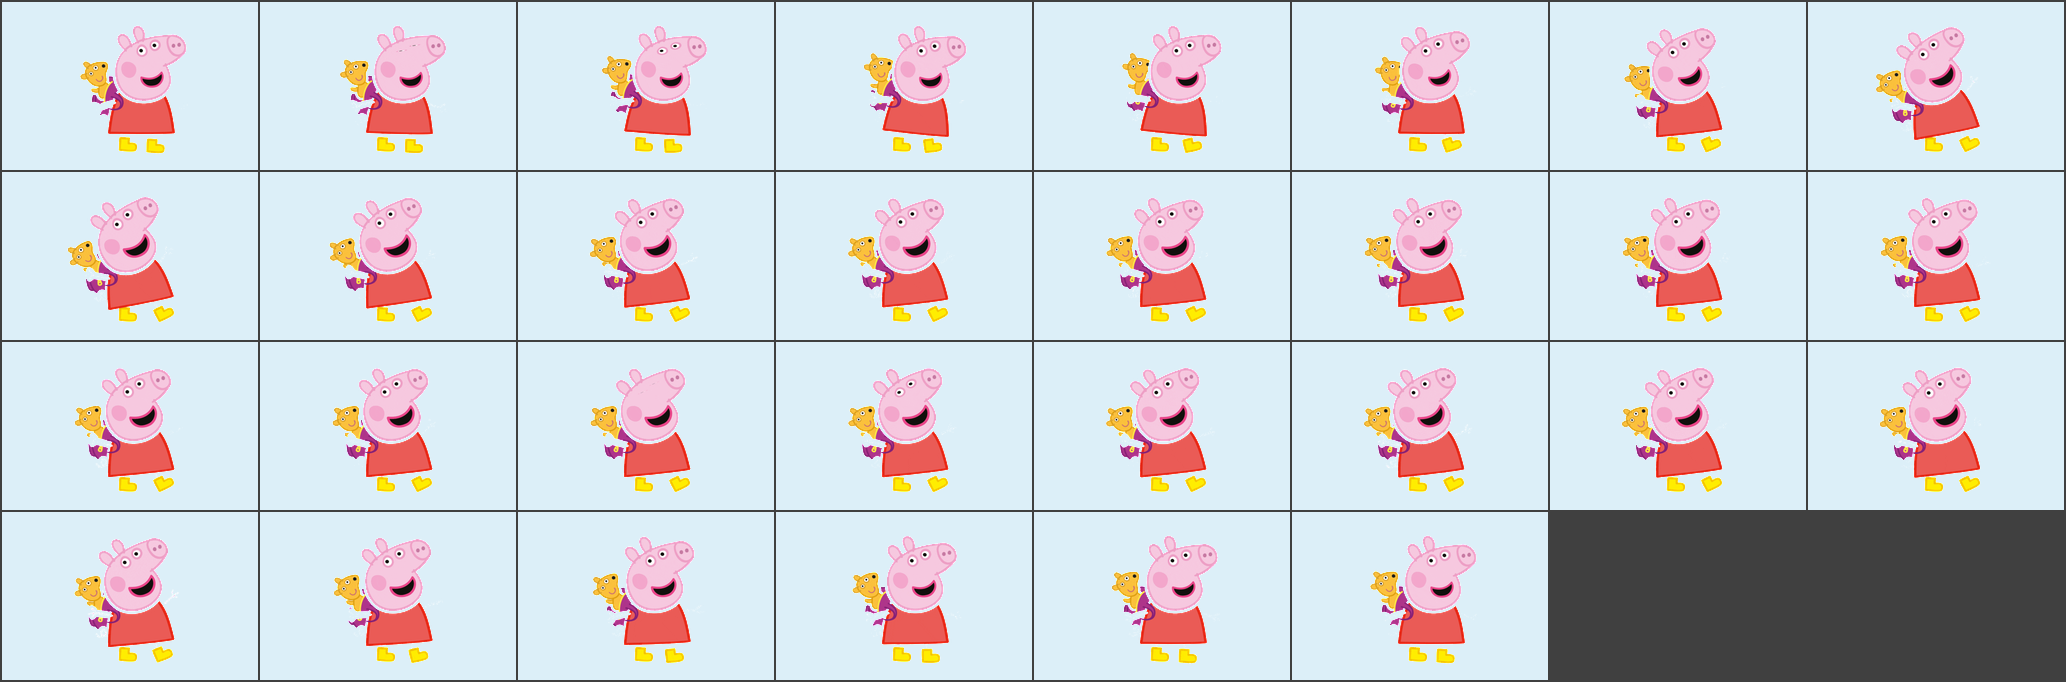
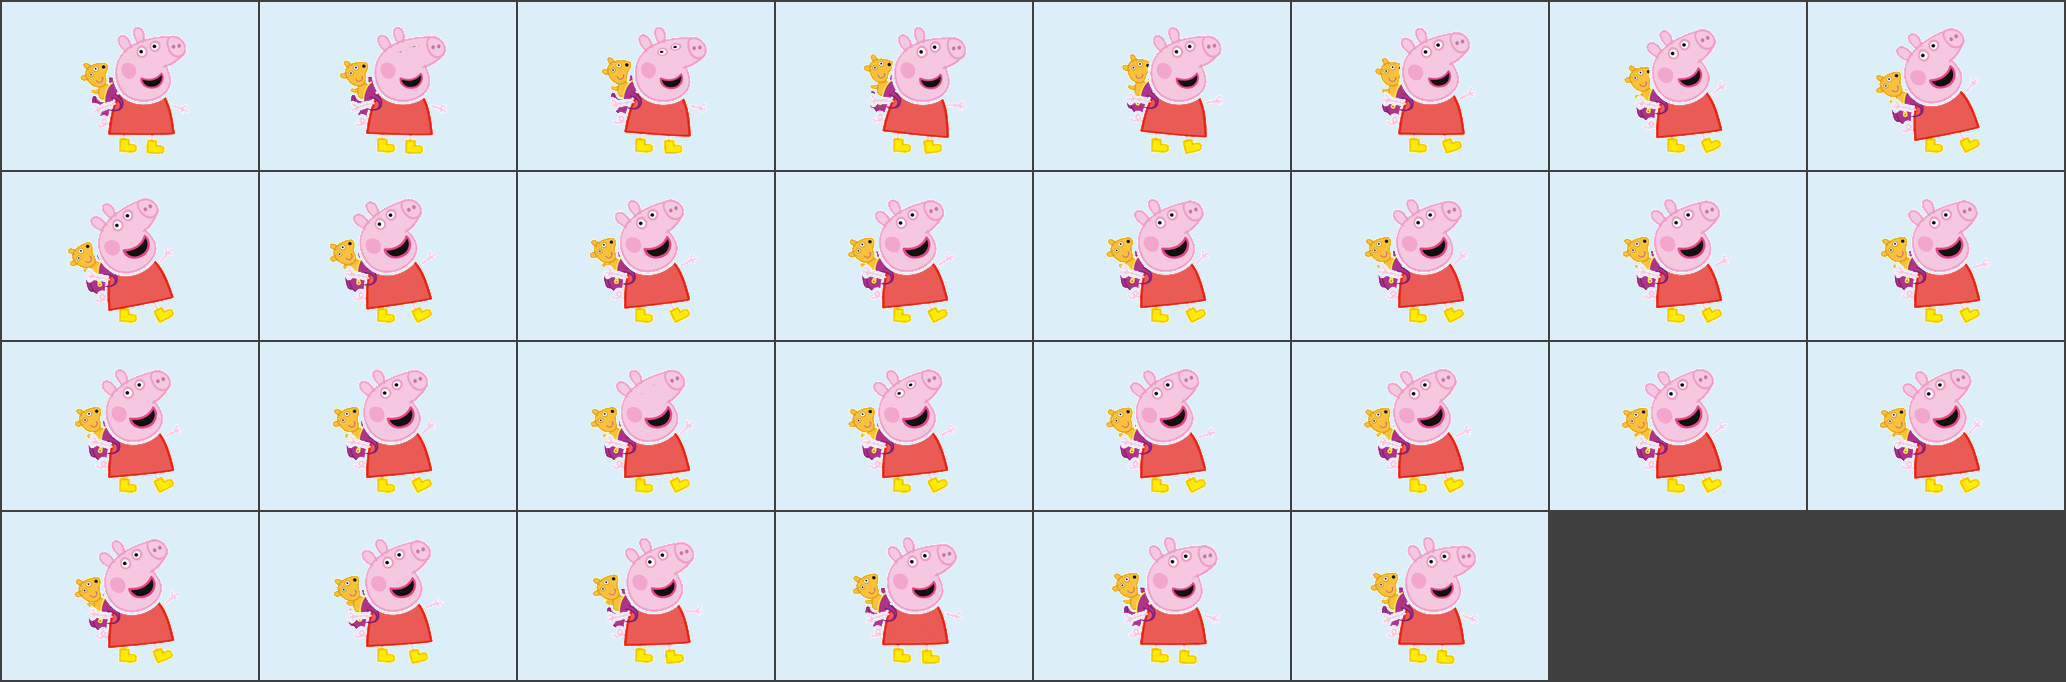
fix(character): keep pale-pink skin intact when stripping sticker border
The white-border removal matched pixels by min(RGB)>=200 alone, which also
matched Peppa's pale-pink skin (chroma ~46); the flood ate her front arm and
punched holes in the backpack strap on walk.gif. The matcher now requires a
neutral color (min>=235 && chroma<=18), followed by two anti-halo passes that
clear only low-chroma bright pixels adjacent to the new transparency.

Verified frame-by-frame against the source: arm, teddy and backpack intact;
white rim removed cleanly (366k px stripped across 30 frames, 536 enclosed
whites left = eye whites).

diff --git a/main/protocols/protocol.cc b/main/protocols/protocol.cc
@@ -23,6 +23,57 @@ void Protocol::AddTextFontCapabilities(cJSON* root) {
     cJSON_AddItemToObject(root, "text_font", font);
 }
 
+void Protocol::AddCharacterAnimationHello(cJSON* root) {
+#if CONFIG_ENABLE_CHARACTER_DISPLAY
+    auto catalog = Assets::GetInstance().character_catalog();
+    if (catalog == nullptr || !catalog->valid()) {
+        return;
+    }
+    const CharacterPackDef* pack = catalog->pack();
+    cJSON* features = cJSON_GetObjectItem(root, "features");
+    if (cJSON_IsObject(features)) {
+        cJSON_AddBoolToObject(features, "character_animation", true);
+    }
+    cJSON* animation = cJSON_CreateObject();
+    cJSON_AddNumberToObject(animation, "version", 1);
+    cJSON_AddStringToObject(animation, "pack_id", pack->pack_id.c_str());
+    cJSON_AddNumberToObject(animation, "epoch", 1);
+    cJSON* actions = cJSON_AddArrayToObject(animation, "actions");
+    for (const auto& action : pack->actions) {
+        cJSON_AddItemToArray(actions, cJSON_CreateString(action.id.c_str()));
+    }
+    cJSON_AddItemToObject(root, "character_animation", animation);
+#endif
+}
+
+void Protocol::ParseCharacterAnimationHello(const cJSON* root) {
+    // The server confirms by echoing version 1; without confirmation the
+    // device stays on local state + neutral and never expects action metadata
+    auto animation = cJSON_GetObjectItem(root, "character_animation");
+    if (!cJSON_IsObject(animation)) {
+        character_animation_confirmed_ = false;
+        return;
+    }
+    auto version = cJSON_GetObjectItem(animation, "version");
+    character_animation_confirmed_ =
+        cJSON_IsNumber(version) && version->valueint == 1;
+    ESP_LOGI(TAG, "Server character animation %s",
+             character_animation_confirmed_ ? "confirmed" : "not confirmed");
+}
+
+void Protocol::AddCharacterAnimationContext(cJSON* root) {
+#if CONFIG_ENABLE_CHARACTER_DISPLAY
+    auto catalog = Assets::GetInstance().character_catalog();
+    if (catalog == nullptr || !catalog->valid()) {
+        return;
+    }
+    cJSON* animation = cJSON_CreateObject();
+    cJSON_AddNumberToObject(animation, "version", 1);
+    cJSON_AddNumberToObject(animation, "epoch", character_epoch_);
+    cJSON_AddItemToObject(root, "character_animation", animation);
+#endif
+}
+
 void Protocol::OnIncomingJson(std::function<void(const cJSON* root)> callback) {
     on_incoming_json_ = callback;
 }
@@ -64,33 +115,70 @@ void Protocol::SetError(const std::string& message, const std::string& detail) {
 }
 
 void Protocol::SendAbortSpeaking(AbortReason reason) {
-    std::string message = "{\"session_id\":\"" + session_id_ + "\",\"type\":\"abort\"";
+    // An abort interrupts the current turn: publish a new capture epoch with it
+    character_epoch_++;
+    cJSON* root = cJSON_CreateObject();
+    cJSON_AddStringToObject(root, "session_id", session_id_.c_str());
+    cJSON_AddStringToObject(root, "type", "abort");
     if (reason == kAbortReasonWakeWordDetected) {
-        message += ",\"reason\":\"wake_word_detected\"";
+        cJSON_AddStringToObject(root, "reason", "wake_word_detected");
     }
-    message += "}";
-    SendText(message);
+    AddCharacterAnimationContext(root);
+    auto json_str = cJSON_PrintUnformatted(root);
+    SendText(json_str);
+    cJSON_free(json_str);
+    cJSON_Delete(root);
 }
 
 void Protocol::SendWakeWordDetected(const std::string& wake_word) {
-    std::string json = "{\"session_id\":\"" + session_id_ +
-                       "\",\"type\":\"listen\",\"state\":\"detect\",\"text\":\"" + wake_word +
-                       "\"}";
-    SendText(json);
+    cJSON* root = cJSON_CreateObject();
+    cJSON_AddStringToObject(root, "session_id", session_id_.c_str());
+    cJSON_AddStringToObject(root, "type", "listen");
+    cJSON_AddStringToObject(root, "state", "detect");
+    cJSON_AddStringToObject(root, "text", wake_word.c_str());
+    AddCharacterAnimationContext(root);
+    auto json_str = cJSON_PrintUnformatted(root);
+    SendText(json_str);
+    cJSON_free(json_str);
+    cJSON_Delete(root);
 }
 
 void Protocol::SendStartListening(ListeningMode mode) {
-    std::string message = "{\"session_id\":\"" + session_id_ + "\"";
-    message += ",\"type\":\"listen\",\"state\":\"start\"";
+    // A new capture window: publish a fresh epoch before the audio starts
+    // (character design, section 9)
+    character_epoch_++;
+    cJSON* root = cJSON_CreateObject();
+    cJSON_AddStringToObject(root, "session_id", session_id_.c_str());
+    cJSON_AddStringToObject(root, "type", "listen");
+    cJSON_AddStringToObject(root, "state", "start");
     if (mode == kListeningModeRealtime) {
-        message += ",\"mode\":\"realtime\"";
+        cJSON_AddStringToObject(root, "mode", "realtime");
     } else if (mode == kListeningModeAutoStop) {
-        message += ",\"mode\":\"auto\"";
+        cJSON_AddStringToObject(root, "mode", "auto");
     } else {
-        message += ",\"mode\":\"manual\"";
+        cJSON_AddStringToObject(root, "mode", "manual");
     }
-    message += "}";
-    SendText(message);
+    AddCharacterAnimationContext(root);
+    auto json_str = cJSON_PrintUnformatted(root);
+    SendText(json_str);
+    cJSON_free(json_str);
+    cJSON_Delete(root);
+}
+
+void Protocol::SendCharacterReset() {
+    // Local VAD interrupt without a listen message (continuous listening):
+    // invalidate the current visual turn on the server side
+    character_epoch_++;
+    cJSON* root = cJSON_CreateObject();
+    cJSON_AddStringToObject(root, "session_id", session_id_.c_str());
+    cJSON_AddStringToObject(root, "type", "character");
+    cJSON_AddStringToObject(root, "state", "reset");
+    cJSON_AddNumberToObject(root, "version", 1);
+    cJSON_AddNumberToObject(root, "epoch", character_epoch_);
+    auto json_str = cJSON_PrintUnformatted(root);
+    SendText(json_str);
+    cJSON_free(json_str);
+    cJSON_Delete(root);
 }
 
 void Protocol::SendStopListening() {

diff --git a/scripts/character_pack_tools/peppa_pack.py b/scripts/character_pack_tools/peppa_pack.py
@@ -177,14 +177,19 @@ def flatten_frames(path):
     return frames
 
 
-def strip_white_border(rgba, min_channel=200):
-    """Remove sticker-style white outline: flood white-ish pixels that touch
-    transparency. Enclosed whites (eye whites) are unreachable and survive."""
+def strip_white_border(rgba, min_channel=235, max_chroma=18):
+    """Remove sticker-style white outline: flood NEUTRAL white pixels that
+    touch transparency. Peppa's pale-pink skin has chroma ~46, so requiring a
+    low chroma keeps skin/arms intact even where they touch the silhouette
+    (regression: min-channel-only matching ate the arm). Enclosed whites (eye
+    whites) are unreachable and survive."""
     arr = np.array(rgba)
     alpha = arr[:, :, 3]
     h, w = alpha.shape
-    rgb_min = arr[:, :, :3].astype(int).min(axis=2)
-    whiteish = (alpha > 0) & (rgb_min >= min_channel)
+    rgb = arr[:, :, :3].astype(int)
+    rgb_min = rgb.min(axis=2)
+    chroma = rgb.max(axis=2) - rgb.min(axis=2)
+    whiteish = (alpha > 0) & (rgb_min >= min_channel) & (chroma <= max_chroma)
     transparent = alpha == 0
     vis = np.zeros((h, w), bool)
     dq = deque()
@@ -205,6 +210,24 @@ def strip_white_border(rgba, min_channel=200):
                 dq.append((ny, nx))
     arr = arr.copy()
     arr[vis] = (0, 0, 0, 0)
+    # anti-halo pass: leftover near-white AA pixels now adjacent to the new
+    # transparency are border residue; skin AA keeps enough chroma to survive
+    for _ in range(2):
+        alpha = arr[:, :, 3]
+        rgb = arr[:, :, :3].astype(int)
+        transparent = alpha == 0
+        adjacent = (
+            np.roll(transparent, 1, 0) | np.roll(transparent, -1, 0)
+            | np.roll(transparent, 1, 1) | np.roll(transparent, -1, 1)
+        )
+        fringe = (
+            (alpha > 0) & adjacent
+            & (rgb.min(axis=2) >= 200)
+            & ((rgb.max(axis=2) - rgb.min(axis=2)) <= 16)
+        )
+        if not fringe.any():
+            break
+        arr[fringe] = (0, 0, 0, 0)
     leftover = int((whiteish & ~vis).sum())
     return Image.fromarray(arr), int(vis.sum()), leftover
 

diff --git a/main/protocols/protocol.h b/main/protocols/protocol.h
@@ -66,6 +66,17 @@ public:
     virtual void SendStopListening();
     virtual void SendAbortSpeaking(AbortReason reason);
     virtual void SendMcpMessage(const std::string& message);
+    // Character reset for interrupts that carry no listen message (local VAD
+    // in continuous listening); publishes a new epoch (character design, section 9)
+    virtual void SendCharacterReset();
+
+    // Character animation protocol extension (v1, optional). The capability is
+    // declared in the device hello; playback of actions requires the server
+    // hello to confirm version 1.
+    inline bool character_animation_confirmed() const {
+        return character_animation_confirmed_;
+    }
+    inline uint32_t character_epoch() const { return character_epoch_; }
 
 protected:
     std::function<void(const cJSON* root)> on_incoming_json_;
@@ -87,6 +98,15 @@ protected:
     void SetError(const std::string& message, const std::string& detail);
     virtual bool IsTimeout() const;
     static void AddTextFontCapabilities(cJSON* root);
+    // Character animation parts shared by both transports; the device
+    // capability is derived from the assets character pack
+    static void AddCharacterAnimationHello(cJSON* root);
+    void ParseCharacterAnimationHello(const cJSON* root);
+    // Attaches the current epoch when the capability is declared
+    void AddCharacterAnimationContext(cJSON* root);
+
+    bool character_animation_confirmed_ = false;
+    uint32_t character_epoch_ = 1;
 };
 
 #endif  // PROTOCOL_H

diff --git a/main/protocols/websocket_protocol.cc b/main/protocols/websocket_protocol.cc
@@ -208,6 +208,7 @@ std::string WebsocketProtocol::GetHelloMessage() {
     cJSON_AddBoolToObject(features, "mcp", true);
     cJSON_AddItemToObject(root, "features", features);
     AddTextFontCapabilities(root);
+    AddCharacterAnimationHello(root);
     cJSON_AddStringToObject(root, "transport", "websocket");
     cJSON* audio_params = cJSON_CreateObject();
     cJSON_AddStringToObject(audio_params, "format", "opus");
@@ -250,6 +251,8 @@ void WebsocketProtocol::ParseServerHello(const cJSON* root) {
             server_frame_duration_ = frame_duration->valueint;
         }
     }
+
+    ParseCharacterAnimationHello(root);
 
     xEventGroupSetBits(event_group_handle_, WEBSOCKET_PROTOCOL_SERVER_HELLO_EVENT);
 }

diff --git a/main/protocols/mqtt_protocol.cc b/main/protocols/mqtt_protocol.cc
@@ -397,6 +397,7 @@ std::string MqttProtocol::GetHelloMessage() {
     cJSON_AddBoolToObject(features, "mcp", true);
     cJSON_AddItemToObject(root, "features", features);
     AddTextFontCapabilities(root);
+    AddCharacterAnimationHello(root);
     cJSON* audio_params = cJSON_CreateObject();
     cJSON_AddStringToObject(audio_params, "format", "opus");
     cJSON_AddNumberToObject(audio_params, "sample_rate", 16000);
@@ -435,6 +436,8 @@ void MqttProtocol::ParseServerHello(const cJSON* root) {
             server_frame_duration_ = frame_duration->valueint;
         }
     }
+
+    ParseCharacterAnimationHello(root);
 
     auto udp = cJSON_GetObjectItem(root, "udp");
     if (!cJSON_IsObject(udp)) {

diff --git a/assets/character/peppa-v1/report.md b/assets/character/peppa-v1/report.md
@@ -3,12 +3,12 @@
 | 动作 | 模式 | 缩放 | 帧数(源→出) | 时长(ms 源→出) | fps | GIF 字节 |
 |---|---|---|---|---|---|---|
 | dance | single | 0.3867 | 59→34 | 2360→2360 | 14.41 | 251201 |
-| walk | single | 0.3565 | 30→18 | 1200→1200 | 15.0 | 107184 |
+| walk | single | 0.3556 | 30→18 | 1200→1200 | 15.0 | 114087 |
 | sing | single | 0.3274 | 59→51 | 3540→3540 | 14.41 | 272060 |
 | muddy_jump | fit | 0.525 | 28→16 | 1120→1120 | 14.29 | 119935 |
 | play_with_george | fit | 0.375 | 21→12 | 840→840 | 14.29 | 79377 |
 
 - neutral: 缩放 0.07048，贴到 [80, 24]，PNG 14212 B；A8 全画布 43008 B / 按 bbox 12416 B
 - neutral 边缘检查：边缘像素 1125，灰边像素 314
-- 动作 GIF 合计 829757 B
+- 动作 GIF 合计 836660 B
 - 解码 RAM 估算（设计文档 §12 公式 5×W×H）：215040 B/解码器（256×168 画布），另加 LZW 表与结构体
